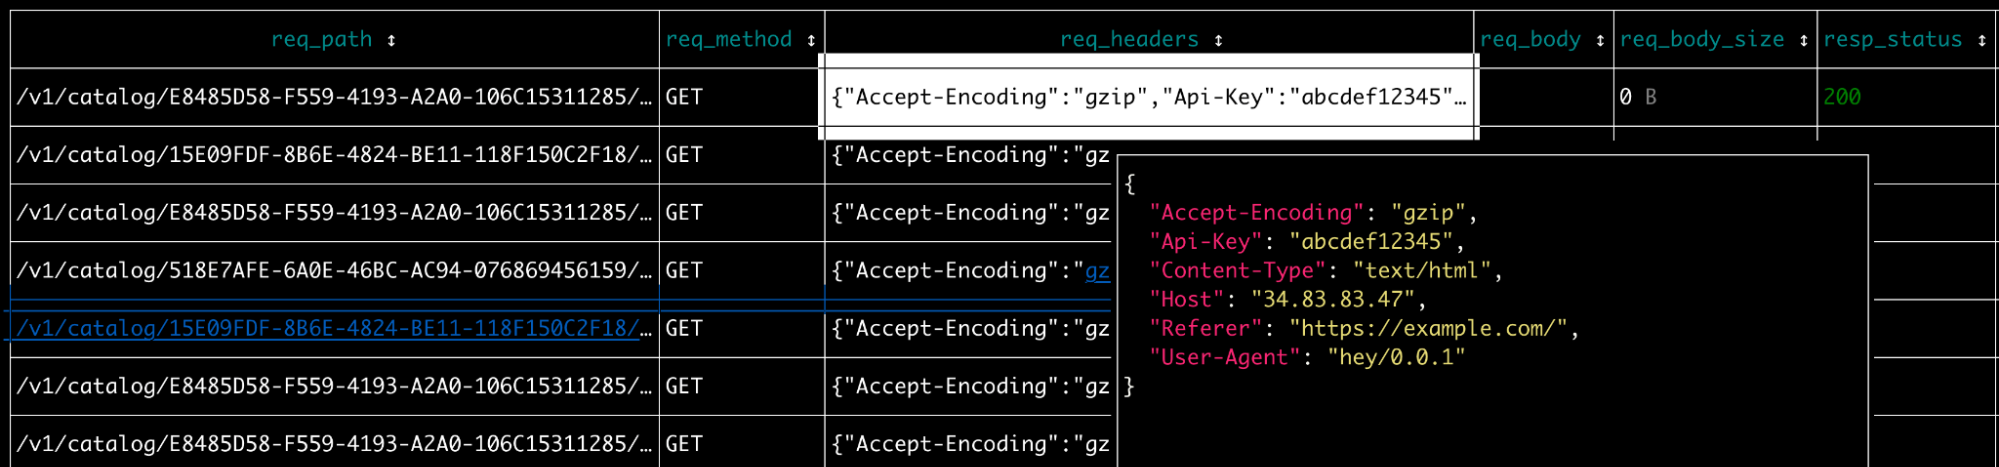
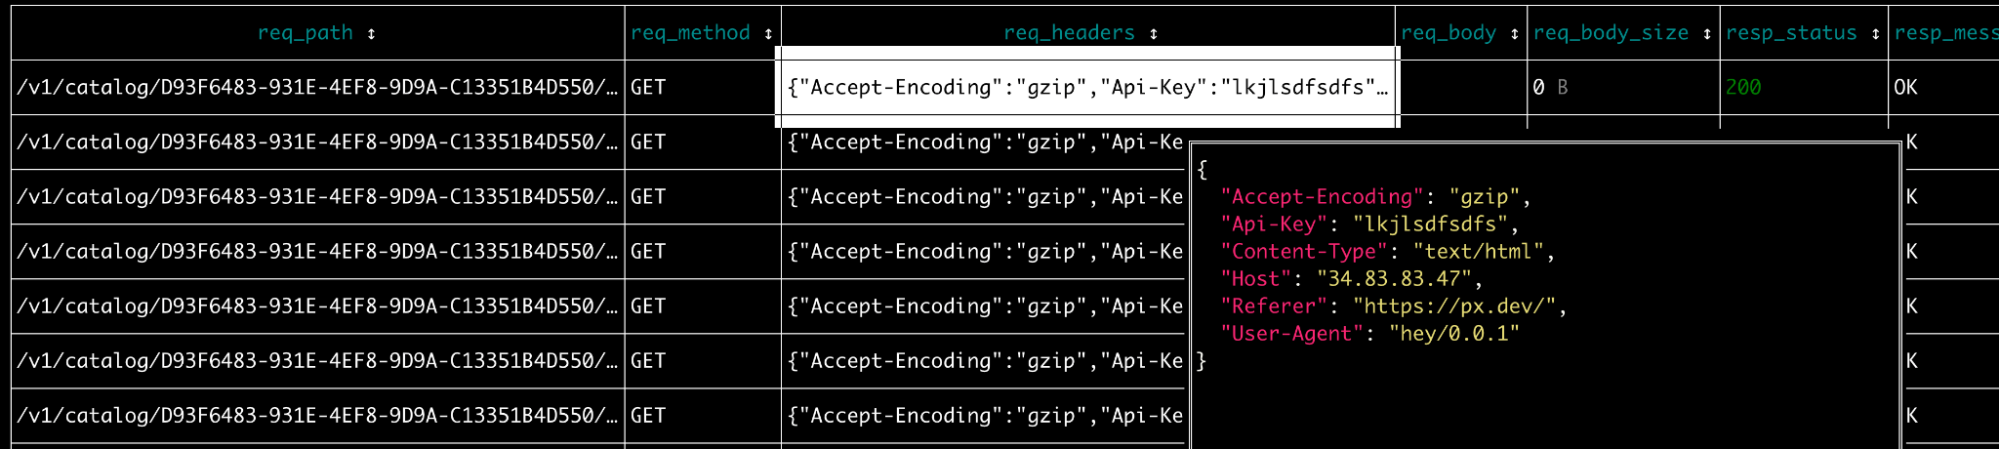
Address nserrino's comments.

Changed region(s): [[0.0, 0.0624, 1.0, 1.0], [0.0, 0.0, 1.0, 0.0312], [0.8064, 0.1871, 0.8374, 0.2183]]

diff --git a/endpoint-deprecation/README.md b/endpoint-deprecation/README.md
@@ -12,6 +12,7 @@ Want to deprecate an API? Use [Pixie](https://github.com/pixie-io/pixie) to quic
 - If you don't already have one, set up a [Kubernetes cluster](https://docs.px.dev/installing-pixie/setting-up-k8s/).
 - [Install Pixie](https://docs.px.dev/installing-pixie/install-guides/) to your Kubernetes cluster.
 - Install the [Pixie CLI](https://docs.px.dev/installing-pixie/install-schemes/cli/#1.-install-the-pixie-cli) if you didn't install it in order to deploy Pixie in the step above.
+- Git clone this repository and `cd` into the `endpoint-deprecation` folder.
 
 ## Test Application
 
@@ -42,33 +43,35 @@ for i in {1..15}; do
 hey -H "Referer:https://example.com/" -H "API-KEY:abcdef12345" -n 550 "http://${ECHO_SERVICE_IP}/v1/catalog/"
 hey -H "Referer:https://px.dev/" -H "API-KEY:lkjlsdfsdfs" -n 50 "http://${ECHO_SERVICE_IP}/v1/catalog/$(uuidgen)/details"
 hey -H "Referer:https://example.com/" -H "API-KEY:abcdef12345" -n 50 "http://${ECHO_SERVICE_IP}/v1/catalog/$(uuidgen)/details"
-hey -H "Referer:https://google.com/" -H "API-KEY:sdfsdfsdfsd" -n 50 "http://${ECHO_SERVICE_IP}/v1/catalog/$(uuidgen)/details"
+hey -H "Referer:https://example.com/" -H "API-KEY:sdfsdfsdfsd" -n 50 "http://${ECHO_SERVICE_IP}/v1/catalog/$(uuidgen)/details"
 hey -H "Referer:https://google.com/" -H "API-KEY:sdfsdfsdfsd" -n 50 "http://${ECHO_SERVICE_IP}/v2/catalog/$(uuidgen)"
 done
 ```
 
 ## Service Traffic Clustered by Logical Endpoint
 
-Copy the `service_endpoints_summary` folder locally, then run:
+From the top-level `endpoint-deprecation` folder, run:
 
 ```
-px live -f service_endpoints_summary -- -start_time '-30m' -service 'default'
+px live -f service_endpoints_summary -- -start_time '-30m' -service 'default/echo-service'
 ```
+
+This PxL sript takes a `service` argument. Note that Pixie formats service names in the `<namespace>/<service>` format.
 
 <img src=".readme_assets/service_endpoints_summary.png" alt="Overview of endpoints for a service.">
 
 To see timeseries graphs for endpoint latency, error and throughput, run the following command and then click the `Live View` link at the top:
 
 ```
-px live pxbeta/service_endpoints -- -start_time '-30m' -service 'default'
+px live pxbeta/service_endpoints -- -start_time '-30m' -service 'default/echo-service'
 ```
 
 ## Full-body HTTP/2 Requests for the Specified Endpoint
 
-Copy the `service_endpoint_requests` folder locally, then run:
+From the top-level `endpoint-deprecation` folder, run:
 
 ```
-px live -f service_endpoint_requests -- -start_time '-30m' -service 'default' -endpoint '/v1/catalog/*/details' -max_num_records 1000
+px live -f service_endpoint_requests -- -start_time '-30m' -service 'default/echo-service' -endpoint '/v1/catalog/*/details'
 ```
 
 <img src=".readme_assets/service_endpoint_requests.png" alt="Sample of requests sent to an endpoint.">
@@ -77,10 +80,10 @@ To inspect truncated table cells (e.g. `req_headers`), select the cell then pres
 
 ## A List of Unique Request Header Field Values
 
-Copy the `unique_req_header_values` folder locally, then run:
+From the top-level `endpoint-deprecation` folder, run:
 
 ```
-px live -f unique_req_header_values -- -start_time '-30m' -service 'default' -endpoint '/v1/catalog/*/details'
+px live -f unique_req_header_values -- -start_time '-30m' -service 'default/echo-service' -endpoint '/v1/catalog/*/details'
 ```
 
 <img src=".readme_assets/unique_req_header_values.png" alt="List of unique request header field values.">
@@ -105,7 +108,7 @@ PxL scripts can be run using the [CLI](https://docs.px.dev/using-pixie/using-cli
 
 ## A Note on Data Retention
 
-Note that the PxL scripts above only examine the last 30 minutes of traffic. This time window can be extended by changing the `start_time` variable (e.g. to use `-3h`). Pixie stores collected data locally on the nodes in your cluster, so data retention is limited to 24 hours or less (depending on the volume of traffic your cluster sees). For more visibility, use [Pixie’s API](https://docs.px.dev/using-pixie/api-quick-start/) to routinely scan for endpoint traffic and log the results (or send a [Slackbot alert](https://docs.px.dev/tutorials/integrations/slackbot-alert/)).
+Note that the PxL scripts above only examine the last 30 minutes of traffic. This time window can be extended by changing the `start_time` variable (e.g. to use `-3h`). For more information on how much data Pixie stores, see the [reference docs](https://docs.px.dev/about-pixie/faq#how-much-data-does-pixie-store).
 
 ## Bugs & Features
 
